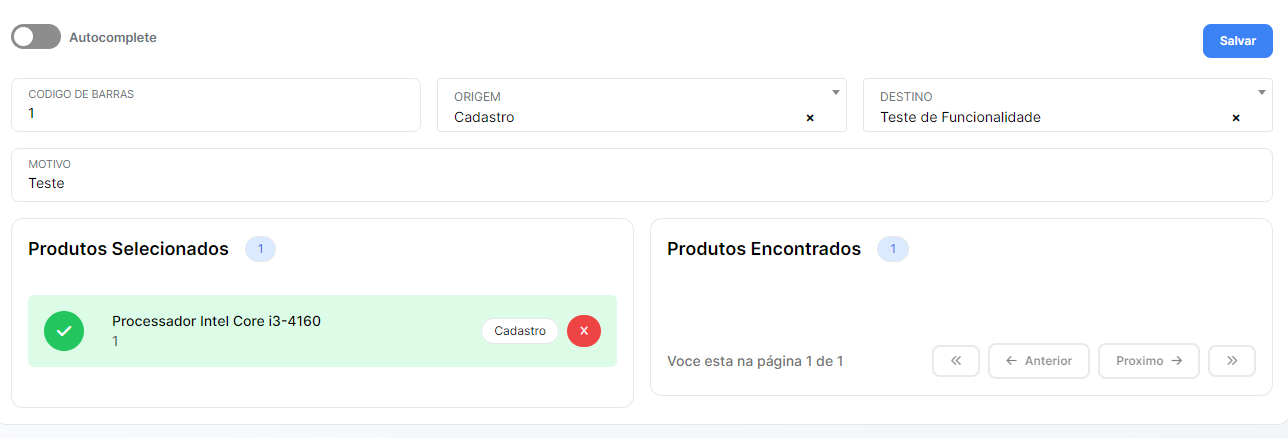
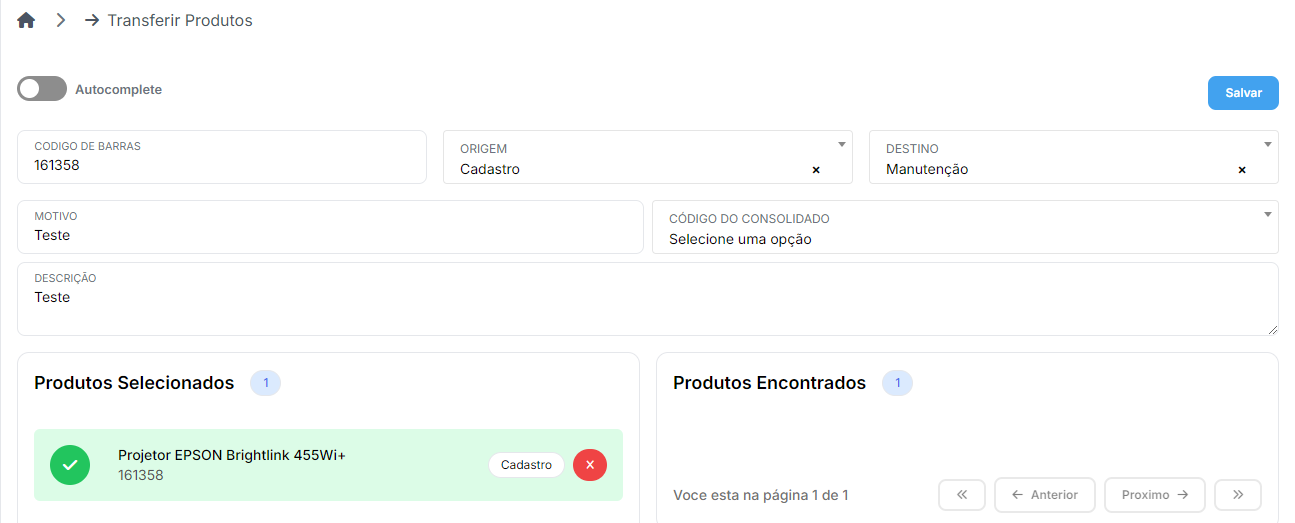
Atualizações Estouque

diff --git a/docs/stock/create_stock.md b/docs/stock/create_stock.md
@@ -9,13 +9,6 @@ O sistema permite que o usuário cadastre estoques para que os produtos gerencia
 
 Veja abaixo como o processo de cadastro de estoque é realizado.
 
-## Acessar a Aba de Cadastro
-
-- Clique na guia **`Estoques`**
-- Clique em **+ Estoques**
-
-![aba estoques](/img/images/aba_estoques.png)
-
 :::info
 
 ## Pré-requisitos
@@ -24,9 +17,20 @@ Veja abaixo como o processo de cadastro de estoque é realizado.
 - Ter permissão de escrita à página de estoques
   :::
 
+## Acessar a Aba de Cadastro
+
+- Clique na guia **`Estoques`**
+- Clique em **+ Estoques**
+
+![aba estoques](/img/images/aba_estoques.png)
+
+- O sistema irá exibir a tela abaixo:
+
+![Tela entrada no estoque](/img/images/tela_entrada_estoque.png)
+
 ## Cadastrar Novo Estoque
 
-- Clique no botão **`Cadastrar Novo`** localizado no canto superior direito da tela
+- Clique no botão **`Cadastrar Novo`**
 - Preencha os campos **NOME** e **DESCRIÇÃO**
 - Selecione se o estoque permitirá venda
 - Selecione se o estoque será sincronizado com o ERP automaticamente
@@ -43,5 +47,29 @@ Após o cadastro, o estoque será incluído numa lista onde constará seu nome, 
 :::info
 Para pesquisar um estoque, basta digitar o nome do mesmo no campo **`PESQUISAR`**
 :::
+
+## Editar Estoque
+
+Editar o cadastro de um estoque é um processo simples, veja abaixo fazê-lo:
+
+- Acesse a página de cadastro de estoque
+- Define o estoque que deseja alterar
+- Clique em **`Editar`**
+- Altere o que for necessário
+- Clique em **`Salvar`**
+
+![Editar estoque](/img/images/editar_estoque.png)
+
+## Definir Destino
+
+Para definir o destino de um estoque cadastrado, siga os passos abaixo:
+
+- Acesse a página de cadastro de estoque
+- Defina o estoque que deseja incluir um destino
+- Clique em **`Destino`**
+- Selecione o destino desejado
+- Clique em **`Salvar`**
+
+![Vincular destino de estoque](/img/images/vincular_destino.png)
 
 Na próxima página veja como são realizadas as entradas no estoque!

diff --git a/docs/orders/create_products.md b/docs/orders/create_products.md
@@ -40,10 +40,24 @@ A seguir confira os pré-requisitos para cadastrar os produtos:
 | Código do Vadis  | Entrada de texto | **Sim**     | Código utilizado no sistema Vadis        |
 | Parent Id        | Entrada de texto | **Sim**     | Equipamento proprietário da mídia / item |
 
+## Ações Disponíveis para Pedidos
+
+Para manipulação de pedidos, o sistema disponibiliza as ações abaixo:
+
+- **Abrir** - Abre um pedido novo para adicionar produtos;
+- **Reabrir** - Reabre um pedido que já foi fechado para que possa ter seus produtos alterados;
+- **Fechar** - Fecha um pedido que teve seu processo de cadastro concluído.
+
+![Visualizar pedidos](/img/images/opcoes_pedidos.png)
+
 ## Passo a Passo para Cadastro
 
 - Escolha o pedido em que deseja cadastrar um produto
+- Clique em **`Abrir`**
 - Clique no botão **`Visualizar`**
+
+![Visualizar pedidos](/img/images/visualizar_pedidos.png)
+
 - Preencha todos os campos obrigatórios para o cadastro conforme as regras de preenchimento.
   - **Triagens:** Código gerado pelo setor de recebimento após a triagem dos materiais recebidos.
   - **Modelo:** Modelo do equipamento

diff --git a/docs/transfer/create_transfer.md b/docs/transfer/create_transfer.md
@@ -27,11 +27,12 @@ Para realizar a transferência de produtos, siga os passos abaixo:
 
 ## Realizar Transferência
 
-- Digite o código de barras do produto
-- Selecione a origem, ou seja, o setor em que o produto se encontra no momento da transferência
-- Selecione o destino para onde o produto será enviado
-- Descreva o motivo pelo qual o produto está sendo transferido
-- Clique em **`Salvar`**
+- Digite o código de barras do produto;
+- Selecione a origem, ou seja, o setor em que o produto se encontra no momento da transferência;
+- Selecione o destino para onde o produto será enviado;
+- Descreva o motivo pelo qual o produto está sendo transferido;
+- Se necessário, adicione uma descrição à transferência;
+- Clique em **`Salvar`**.
 
 ![Tela Tranferência](/img/images/exemplo_transferencia.png)
 

diff --git a/docs/transfer/transfer_query.md b/docs/transfer/transfer_query.md
@@ -1,0 +1,8 @@
+---
+sidebar_position: 3
+title: "Consultar Transferência"
+---
+
+# Consultar Transferências :mag:
+
+![Consultas Transferências](/img/images/caminho_consultas_transferencia.png)
